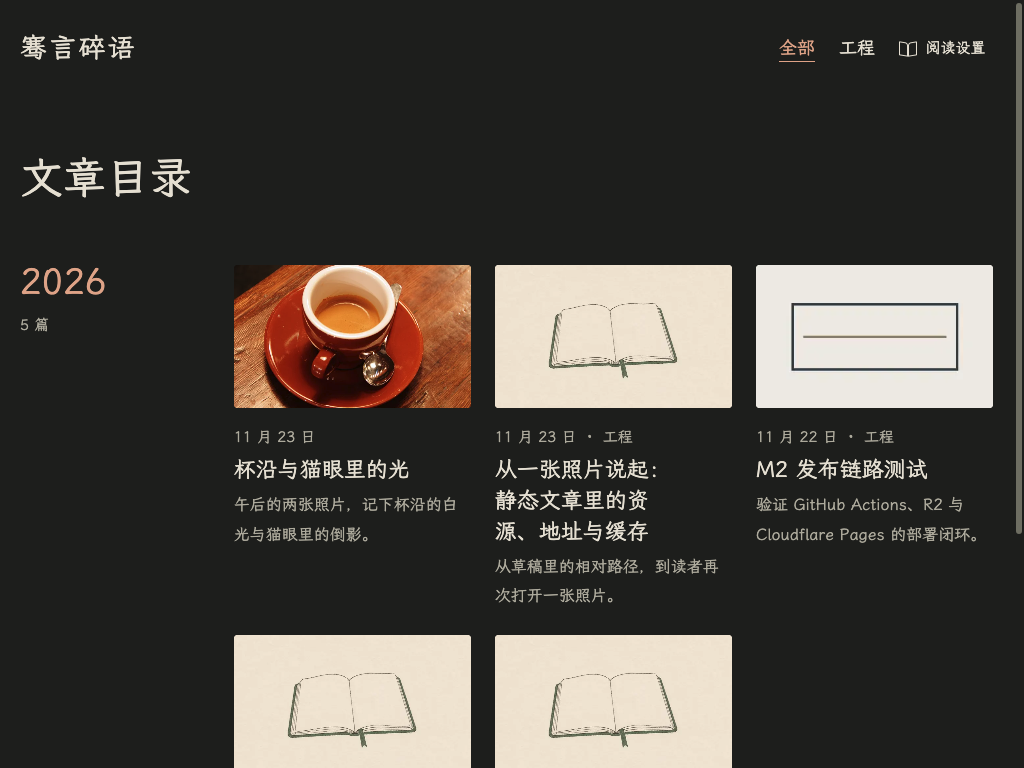
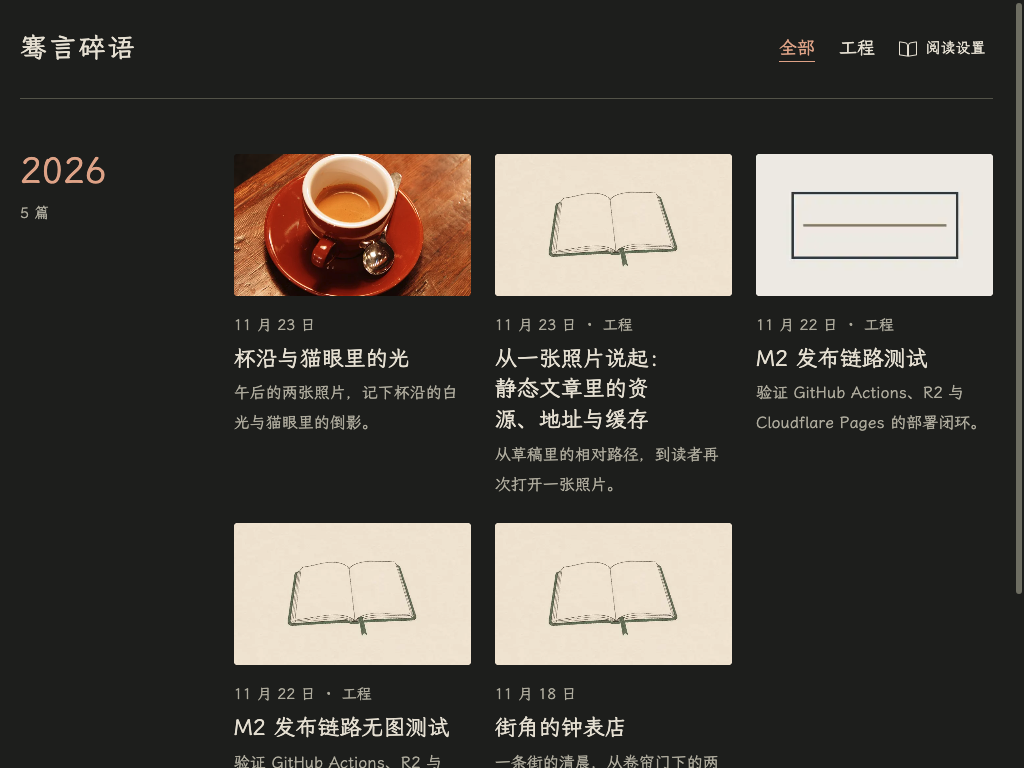
refactor: lead the archive with years and frame article titles

diff --git a/src/styles/site.css b/src/styles/site.css
@@ -8,13 +8,13 @@
   --site-measure: 1160px;
   --archive-measure: 1000px;
   --small: 15px;
-  --display: clamp(36px, 4.2vw, 54px);
   --s1: 0.5rem;
   --s2: 1rem;
   --s3: 1.5rem;
   --s4: 2rem;
   --page-gap: clamp(2rem, 5vw, 4.5rem);
   --rule: 1px solid var(--line);
+  --group-rule: 1px solid color-mix(in srgb, var(--line) 65%, var(--paper));
   --radius: 3px;
   --focus: 2px solid var(--accent);
   --regular: 400;
@@ -68,11 +68,15 @@ h2 { font-size: var(--h2); }
 h3 { font-size: var(--h3); }
 img { max-width: 100%; height: auto; }
 [hidden] { display: none !important; }
+.visually-hidden {
+  position: absolute; width: 1px; height: 1px; overflow: hidden;
+  clip-path: inset(50%); white-space: nowrap; padding: 0; border: 0;
+}
 .skip { position: absolute; z-index: 1; padding: var(--s1) var(--s2); background: var(--paper); transform: translateY(-120%); }
 .skip:focus { transform: none; }
 .mast, .colophon, .mast nav, .colophon nav { display: flex; flex-wrap: wrap; align-items: center; }
 .mast, .colophon { justify-content: space-between; gap: var(--s2); }
-.mast { padding-block: var(--s3); }
+.mast { padding-block: var(--s3); border-bottom: var(--rule); }
 .mast nav { margin-inline-start: auto; }
 .brand { font-size: var(--h2); letter-spacing: .08em; display: inline-flex; align-items: baseline; gap: .45em; }
 .mast nav, .colophon nav { gap: var(--s3); }
@@ -82,10 +86,10 @@ img { max-width: 100%; height: auto; }
   color: var(--accent); text-decoration: underline; text-underline-offset: .4em;
 }
 .colophon { font-size: var(--small); color: var(--muted); padding-block: var(--s3); }
+main:has(.posts) { padding-block-start: clamp(1.25rem, 3vw, 2.75rem); }
 .archive { max-width: var(--archive-measure); margin-inline: auto; }
 .archive-head { display: flex; flex-wrap: wrap; gap: var(--s2); align-items: baseline; margin-bottom: var(--s4); }
-.scope { color: var(--muted); font-size: var(--small); }
-.archive-head h1 { font-size: var(--display); }
+.archive-head h1 { font-size: var(--h2); }
 @media (max-width: 600px) {
   .mast { padding-block: var(--s2); }
   .mast nav, .colophon nav { gap: var(--s2); }
